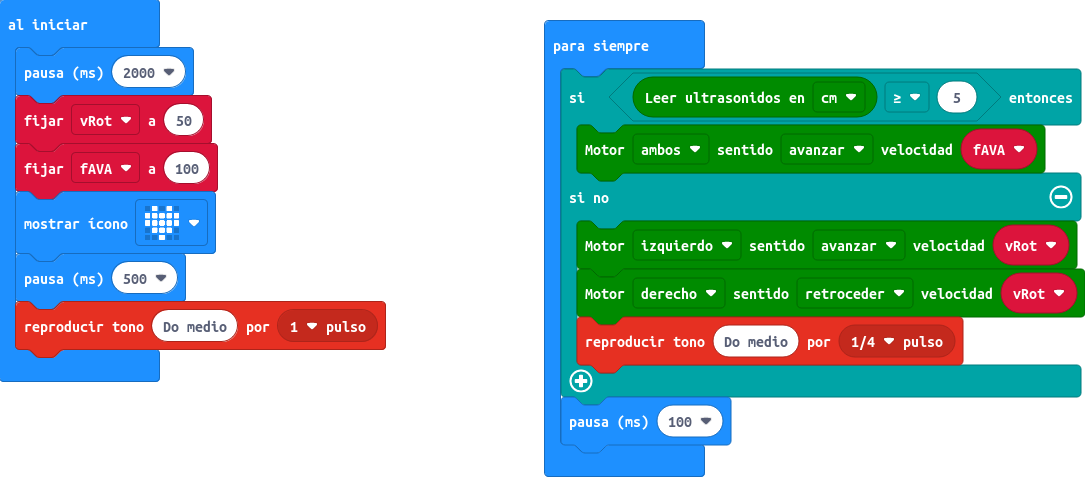
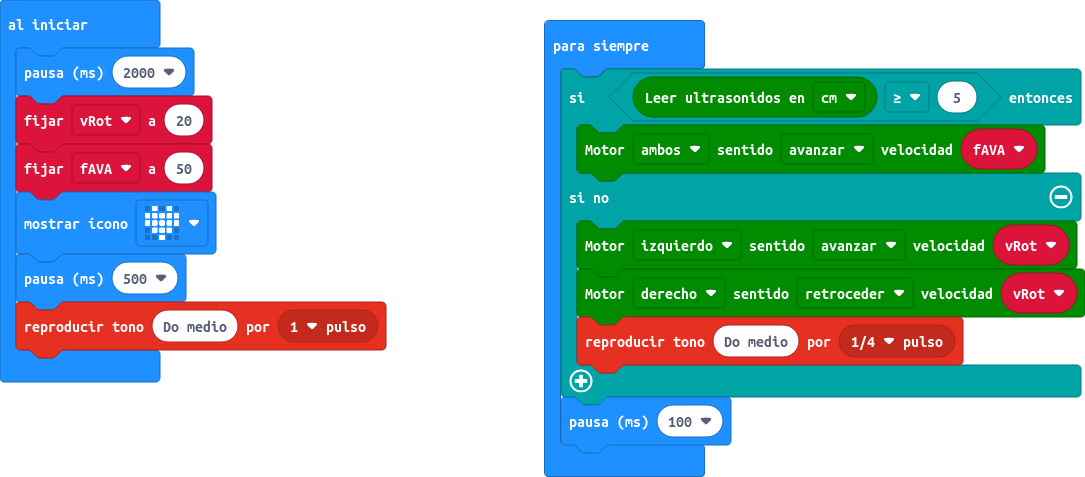
Reduzco velocidad

diff --git a/main.ts b/main.ts
@@ -1,6 +1,6 @@
 basic.pause(2000)
-let vRot = 50
-let fAVA = 100
+let vRot = 20
+let fAVA = 50
 basic.showIcon(IconNames.Heart)
 basic.pause(500)
 music.playTone(262, music.beat(BeatFraction.Whole))
